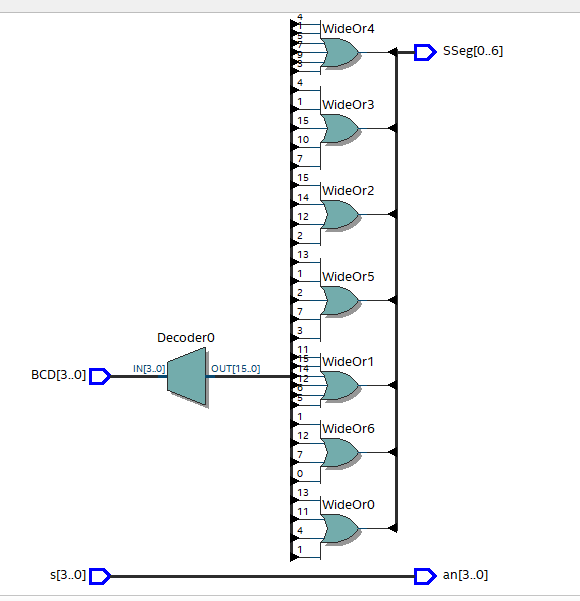
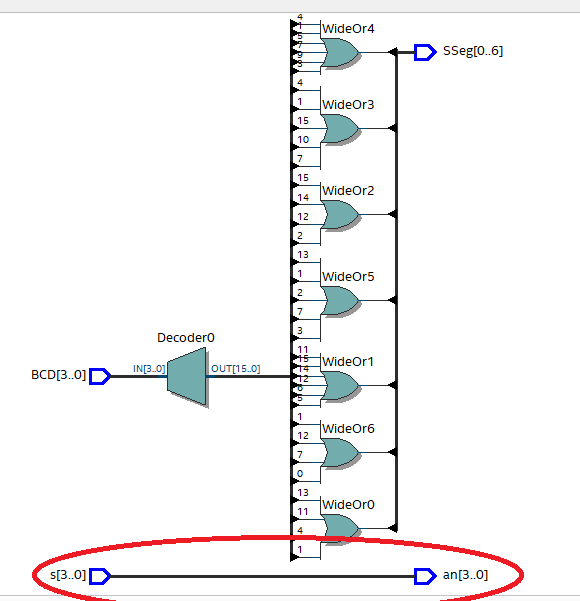
Cambios

Changed region(s): [[0.0621, 0.8686, 0.9, 1.0]]

diff --git a/README.md b/README.md
@@ -75,6 +75,22 @@ Ahora bien, con este código hasta el momento, los 4 displays mostrarian el mism
 
 ### 2. Descripción
 
+En esta sección podremos ver la idea de cada paso, en la primera parte ocupamos codificar y decodificar, lo que esta representado así:
+
+![BCDtoSSeg](./imagenes/Sseg.png)
+
+Esto está traducido en el codigo verilog así: 
+
+![BCDtoSSeg](./imagenes/codificar.png)
+
+El bloque always @ (*) contiene un case que mapea cada valor BCD a un patrón de 7 segmentos.
+
+Cada combinación de BCD activa/desactiva los segmentos (a a g) del display.
+
+La siguiente parte consiste en agregar la señal de control conectada al anodo comun. esto lo podemos ver en la imagen de abajo, señalado dentro del circulo rojo.
+
+![BCDtoSSeg](./imagenes/bloques.png)
+
 ### 3. Diagramas
 
 
